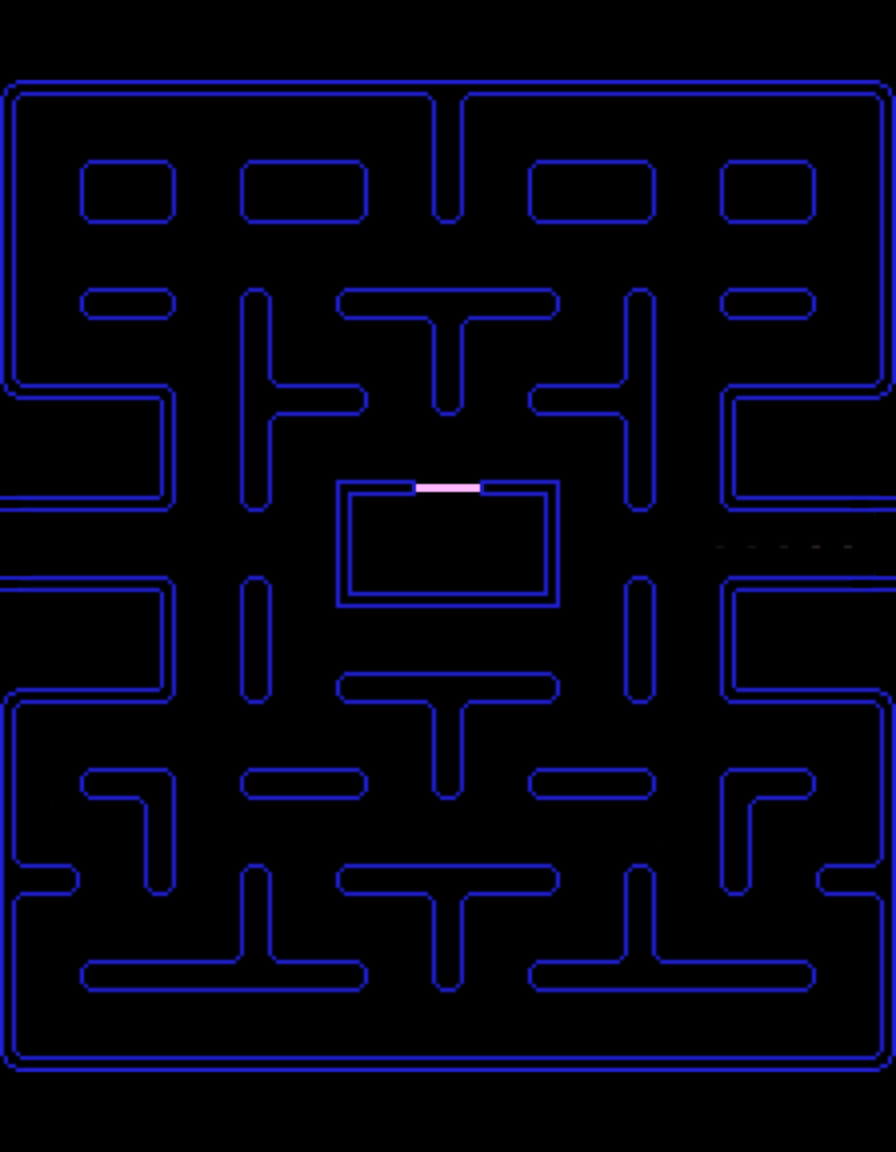
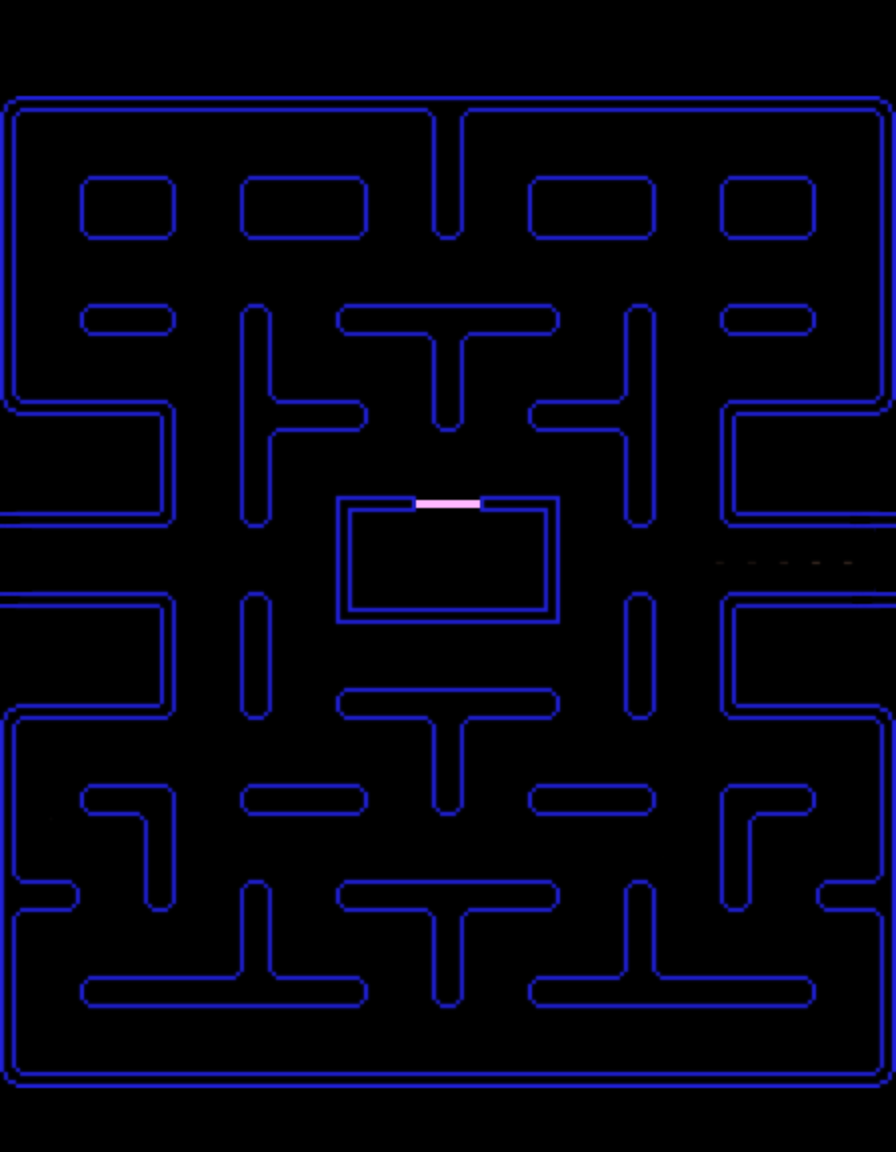
ad

diff --git a/src/main.cpp b/src/main.cpp
@@ -6,7 +6,7 @@ using namespace std;
 const unsigned speed = 176;
 int main()
 {
-    auto window = sf::RenderWindow({896u, 1152u}, "Pacman");
+    auto window = sf::RenderWindow({896u, 1088u}, "Pacman");
     window.setFramerateLimit(60);
     GameMap gameMap;
     Pacman pacman;

diff --git a/src/Pacman.cpp b/src/Pacman.cpp
@@ -2,6 +2,6 @@
 Pacman::Pacman(){
     charTexture.loadFromFile("Resources/pacman.png");
     charSprite.setTexture(charTexture);
-    charSprite.setPosition(32*13+16,32*19+16);
+    charSprite.setPosition(32*13+16,640);
     States dir = States::STILL;
 }
